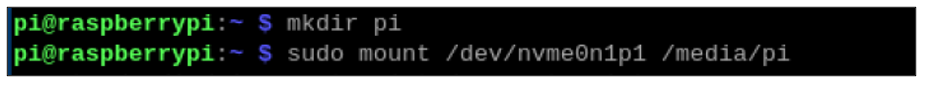
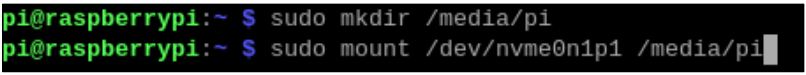
update

diff --git a/docs/source/fnk0100/codes/tutorial/3_Install_Raspberry_Pi_OS.rst b/docs/source/fnk0100/codes/tutorial/3_Install_Raspberry_Pi_OS.rst
@@ -526,7 +526,7 @@ At this point, you can mount the disk using the mount command and then access th
 
 .. code-block:: console
     
-    mkdir pi
+    sudo mkdir /media/pi
     sudo mount /dev/nvme0n1p1 /media/pi
 
 .. image:: ../_static/imgs/3_Install_Raspberry_Pi_OS/Chapter03_52.png
